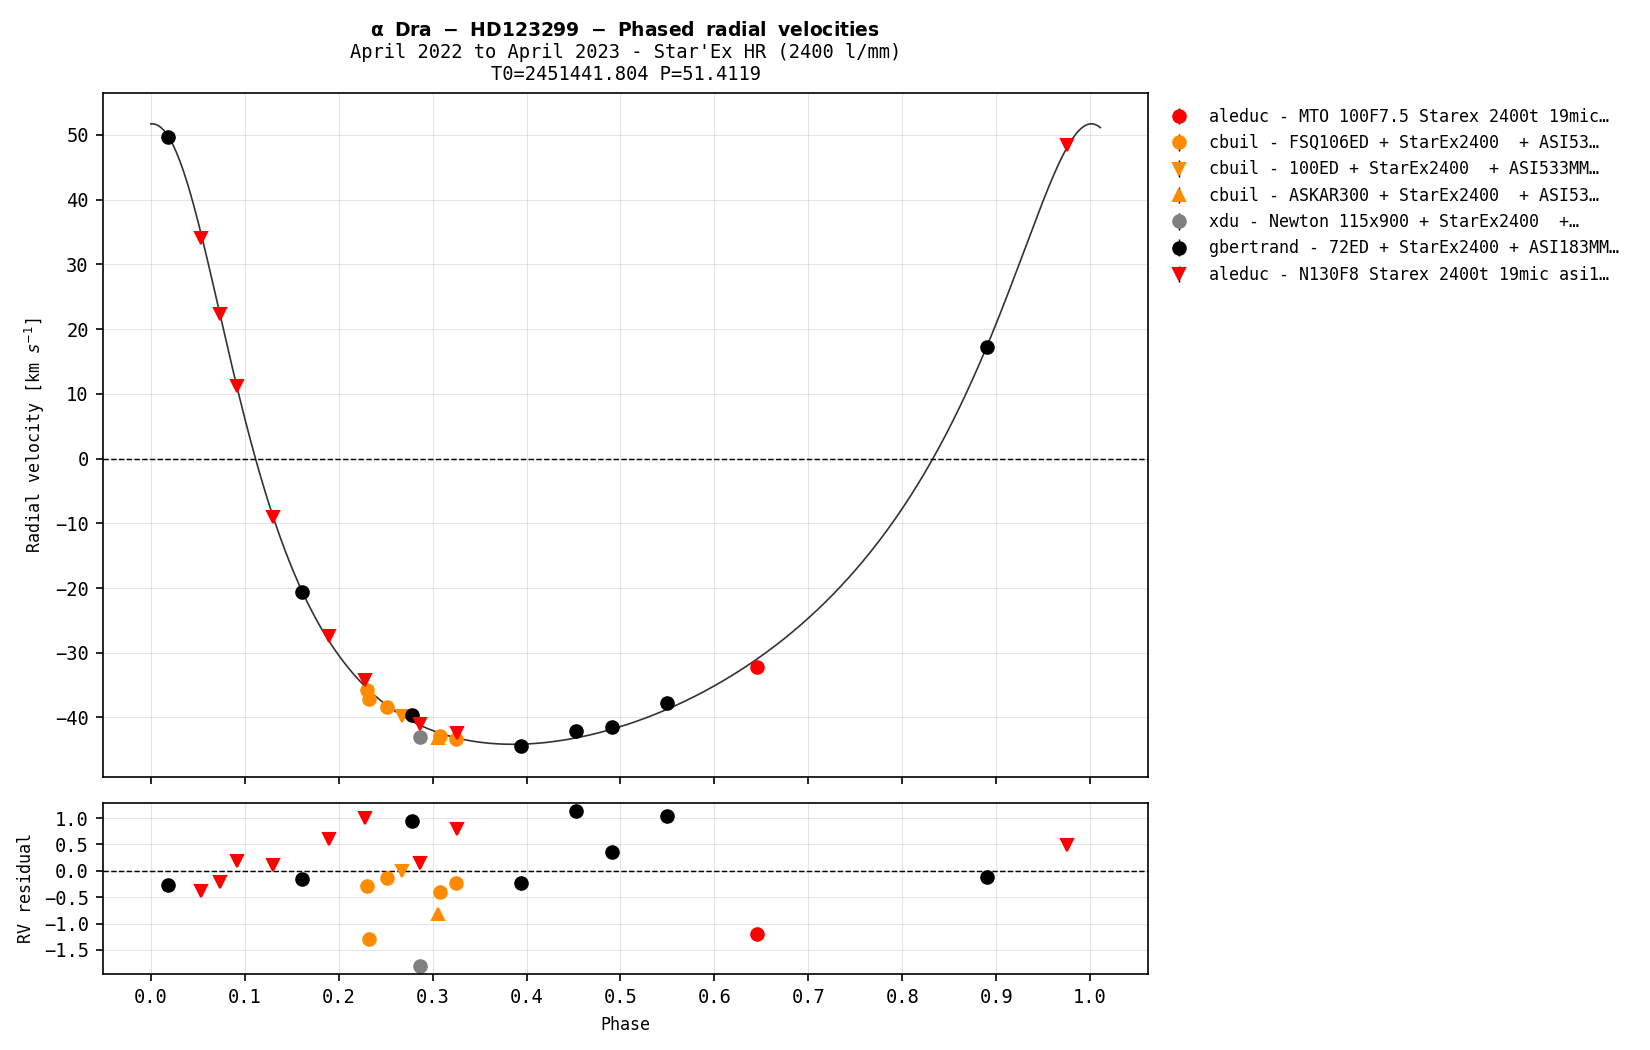
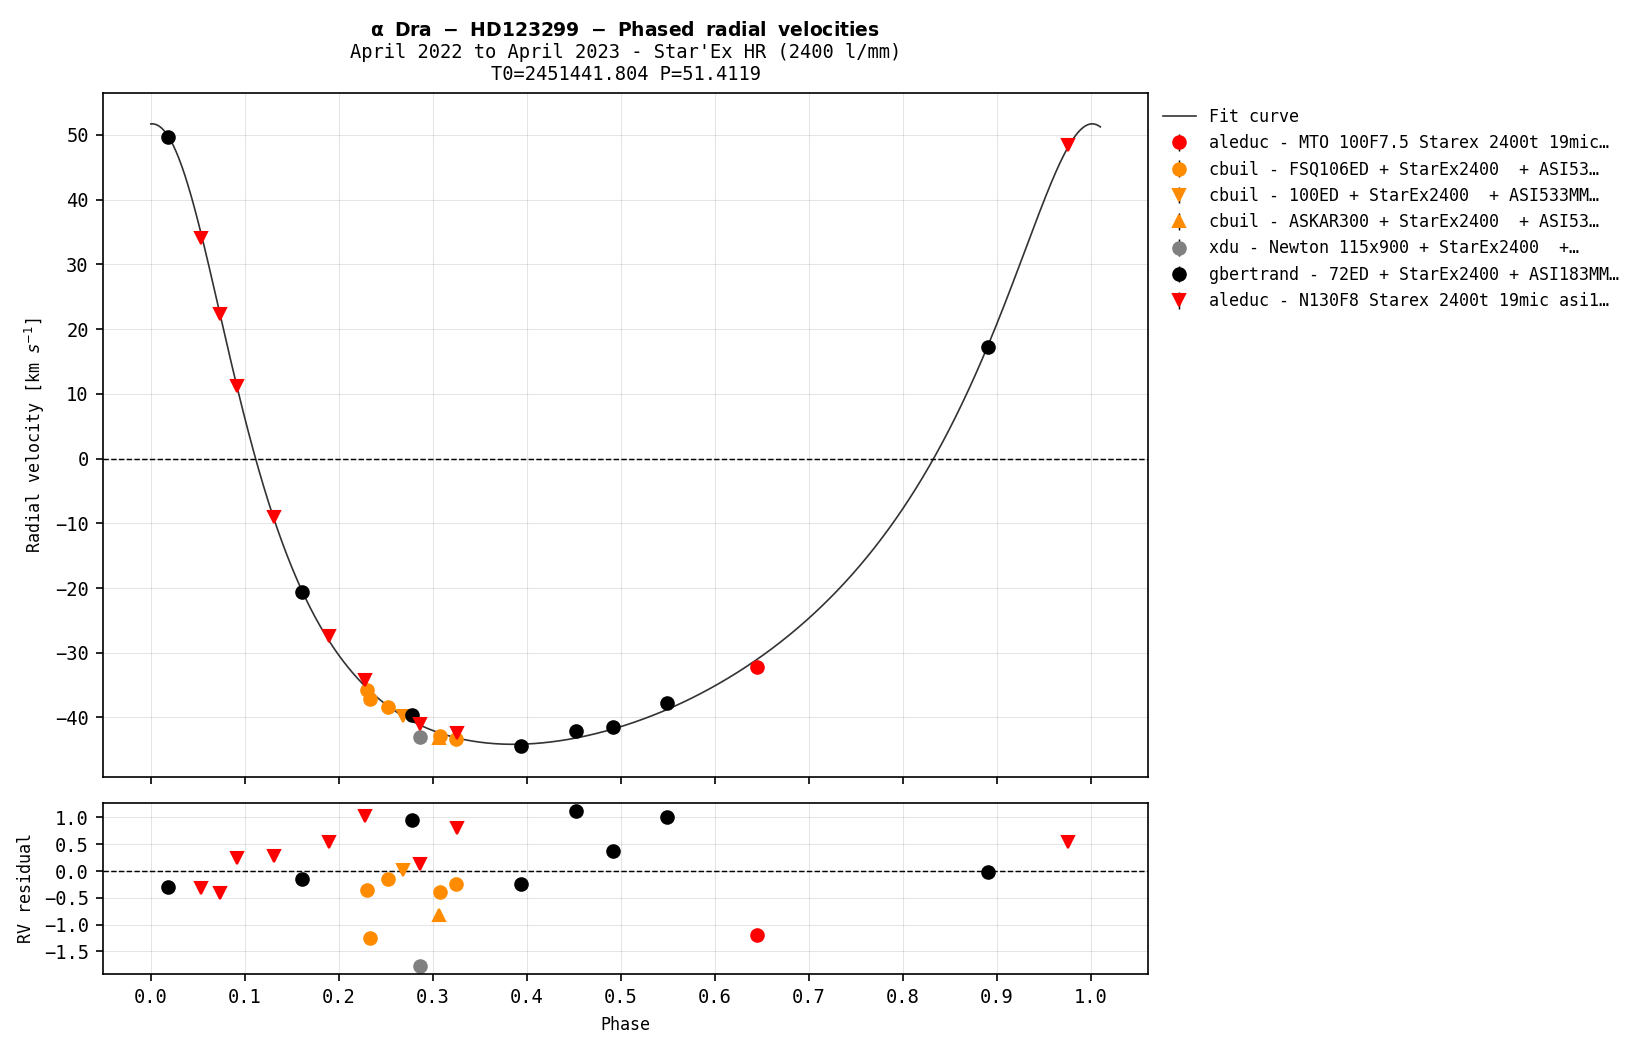
fix

diff --git a/bss.py b/bss.py
@@ -201,7 +201,7 @@ def initPlot():
     return (fig, axs)
 
 def plotRadialVelocityCurve(ax, v0, K, e, w, jd0,color="red", lw=0.5, alpha=1, label=""):
-    model_x = np.arange(0,1.011, 0.0001)
+    model_x = np.arange(0,1.011, 0.001)
     model_y = list(map(lambda x: computeRadialVelocityCurve(x,jd0,K,e,w,v0), model_x))
     ax.plot(model_x, model_y, color, alpha=alpha, lw=lw, label=label)
     return (model_x, model_y)
@@ -229,10 +229,11 @@ def plotRadialVelocityDotsFromData(specs, period, jd0, error, axs, model):
             axs[0].errorbar(s['phase'], s['radial_velocity'][0].value,yerr = 0, label= label, ecolor='k', capsize=0,fmt =observers[obs]['instruments'][label], color=observers[obs]['color'], lw=0.7)
         else:
             axs[0].errorbar(s['phase'], s['radial_velocity'][0].value,yerr = 0, fmt =observers[obs]['instruments'][label], ecolor='k', capsize=0,color=observers[obs]['color'], lw=.7)    
- 
+        print(s['header']['DATE-OBS'], observers[obs]['instruments'][label])
         xindex = findNearest(model[0], s['phase'])
         axs[1].errorbar(s['phase'], s['radial_velocity'][0].value- model[1][xindex],yerr = 0, fmt =observers[obs]['instruments'][label], ecolor='k', capsize=0,color=observers[obs]['color'], lw=.7)            
     
+
 def saveAndShowPlot(ax, t0, p):
     t = ''
     split_oname = conf['title'].split(' ')
@@ -334,7 +335,8 @@ if __name__ == '__main__':
 
         # plot results
         (fig, axs) = initPlot()
-        model = plotRadialVelocityCurve(axs[0], params[0], params[1], params[3], params[2], v0, conf['line_color'], 0.8, 0.8)
+        #plotRadialVelocityCurve(axs[0], params[0], 48.512, 0.4229, 21.28,1,'k--', 0.8, 0.8, 'K.Pavlovski, et al. 2021')
+        model = plotRadialVelocityCurve(axs[0], params[0], params[1], params[3], params[2], v0, conf['line_color'], 0.8, 0.8, 'Fit curve')
         plotRadialVelocityDotsFromData(data, params[5], t0, err, axs, model)
         saveAndShowPlot(axs,t0,params[5])
         print('[γ, K, ω, e, T0, P, a, f(M)]')
